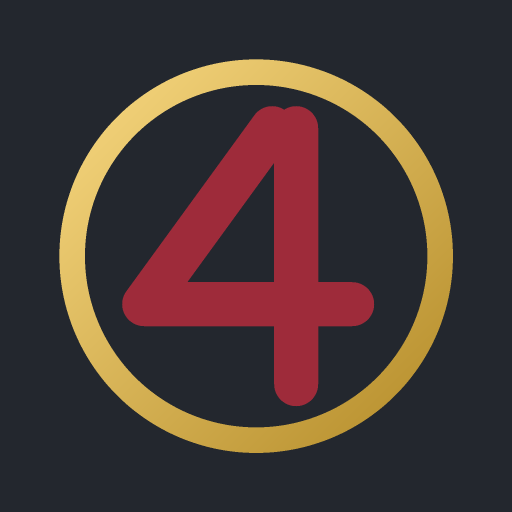
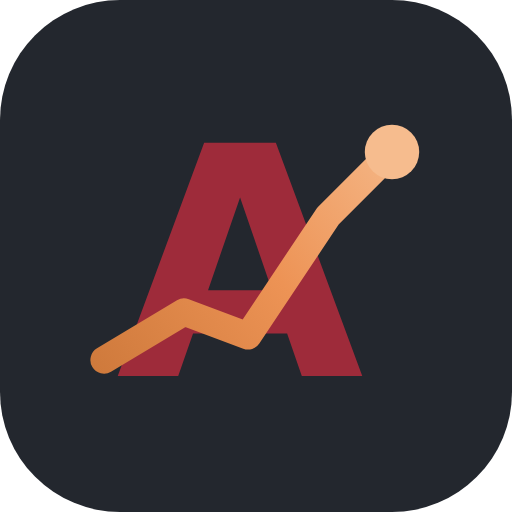
Afinanças: nova marca "Alta" (A + linha de alta)
Troca o símbolo do app pessoal: o "A" bordô com uma linha de alta dourada
cruzando por cima e um ponto que brilha no fim (patrimônio subindo), no lugar
do anel/moeda antigo. Atualiza AF4Mark (componente Logo), o favicon SVG
(public/icon.svg) e o ícone do PWA (apple-touch-icon.png, 512px).

Claude-Session: https://claude.ai/code/session_01ASeLJWbp2xaUxn5bXdwdsK

diff --git a/apps/cars-web/src/components/ui/Logo.jsx b/apps/cars-web/src/components/ui/Logo.jsx
@@ -2,7 +2,8 @@ import React from "react";
 
 /**
  * Marca Afinanças — "A" (bordô) + "finanças" (dourado).
- * Símbolo: anel dourado (moeda/riqueza) com a inicial "A" no centro.
+ * Símbolo "Alta": o "A" bordô com uma linha de alta dourada cruzando por cima,
+ * terminando num ponto que brilha — patrimônio subindo.
  *
  *   <AF4Mark size={36} />     → símbolo sozinho (favicon / mobile)
  *   <Logo size={28} />        → símbolo + "Afinanças"
@@ -19,20 +20,24 @@ export function AF4Mark({ size = 36, bg = "#23272E", gid }) {
     <svg width={size} height={size} viewBox="0 0 64 64" fill="none" role="img" aria-label="Afinanças"
          xmlns="http://www.w3.org/2000/svg" style={{ display: "block", flexShrink: 0 }}>
       <defs>
-        <linearGradient id={id} x1="12" y1="10" x2="52" y2="54" gradientUnits="userSpaceOnUse">
-          <stop stopColor={GOLD_HI} />
+        {/* linha de alta: dourado escuro embaixo → claro em cima */}
+        <linearGradient id={id} x1="12" y1="46" x2="52" y2="16" gradientUnits="userSpaceOnUse">
+          <stop stopColor={GOLD_LO} />
           <stop offset="0.5" stopColor={GOLD_MD} />
-          <stop offset="1" stopColor={GOLD_LO} />
+          <stop offset="1" stopColor={GOLD_HI} />
         </linearGradient>
       </defs>
       {/* fundo arredondado grafite */}
       <rect width="64" height="64" rx="15" fill={bg} />
-      {/* anel (moeda / riqueza) */}
-      <circle cx="32" cy="32" r="23" fill="none" stroke={`url(#${id})`} strokeWidth="3.2" />
-      {/* "A" no centro — bordô, igual à marca */}
-      <text x="32" y="33" textAnchor="middle" dominantBaseline="central"
-            fontFamily="'Inter', 'Nunito', system-ui, sans-serif" fontWeight="800" fontSize="32"
+      {/* "A" bordô */}
+      <text x="30" y="47" textAnchor="middle"
+            fontFamily="'Inter', 'Nunito', system-ui, sans-serif" fontWeight="800" fontSize="40"
             fill={BORDO}>A</text>
+      {/* linha de alta cruzando por cima */}
+      <polyline points="13,45 23,39 31,42 41,27 49,19" fill="none"
+                stroke={`url(#${id})`} strokeWidth="3.4" strokeLinecap="round" strokeLinejoin="round" />
+      {/* ponto que brilha no fim da linha */}
+      <circle cx="49" cy="19" r="3.4" fill={GOLD_HI} />
     </svg>
   );
 }